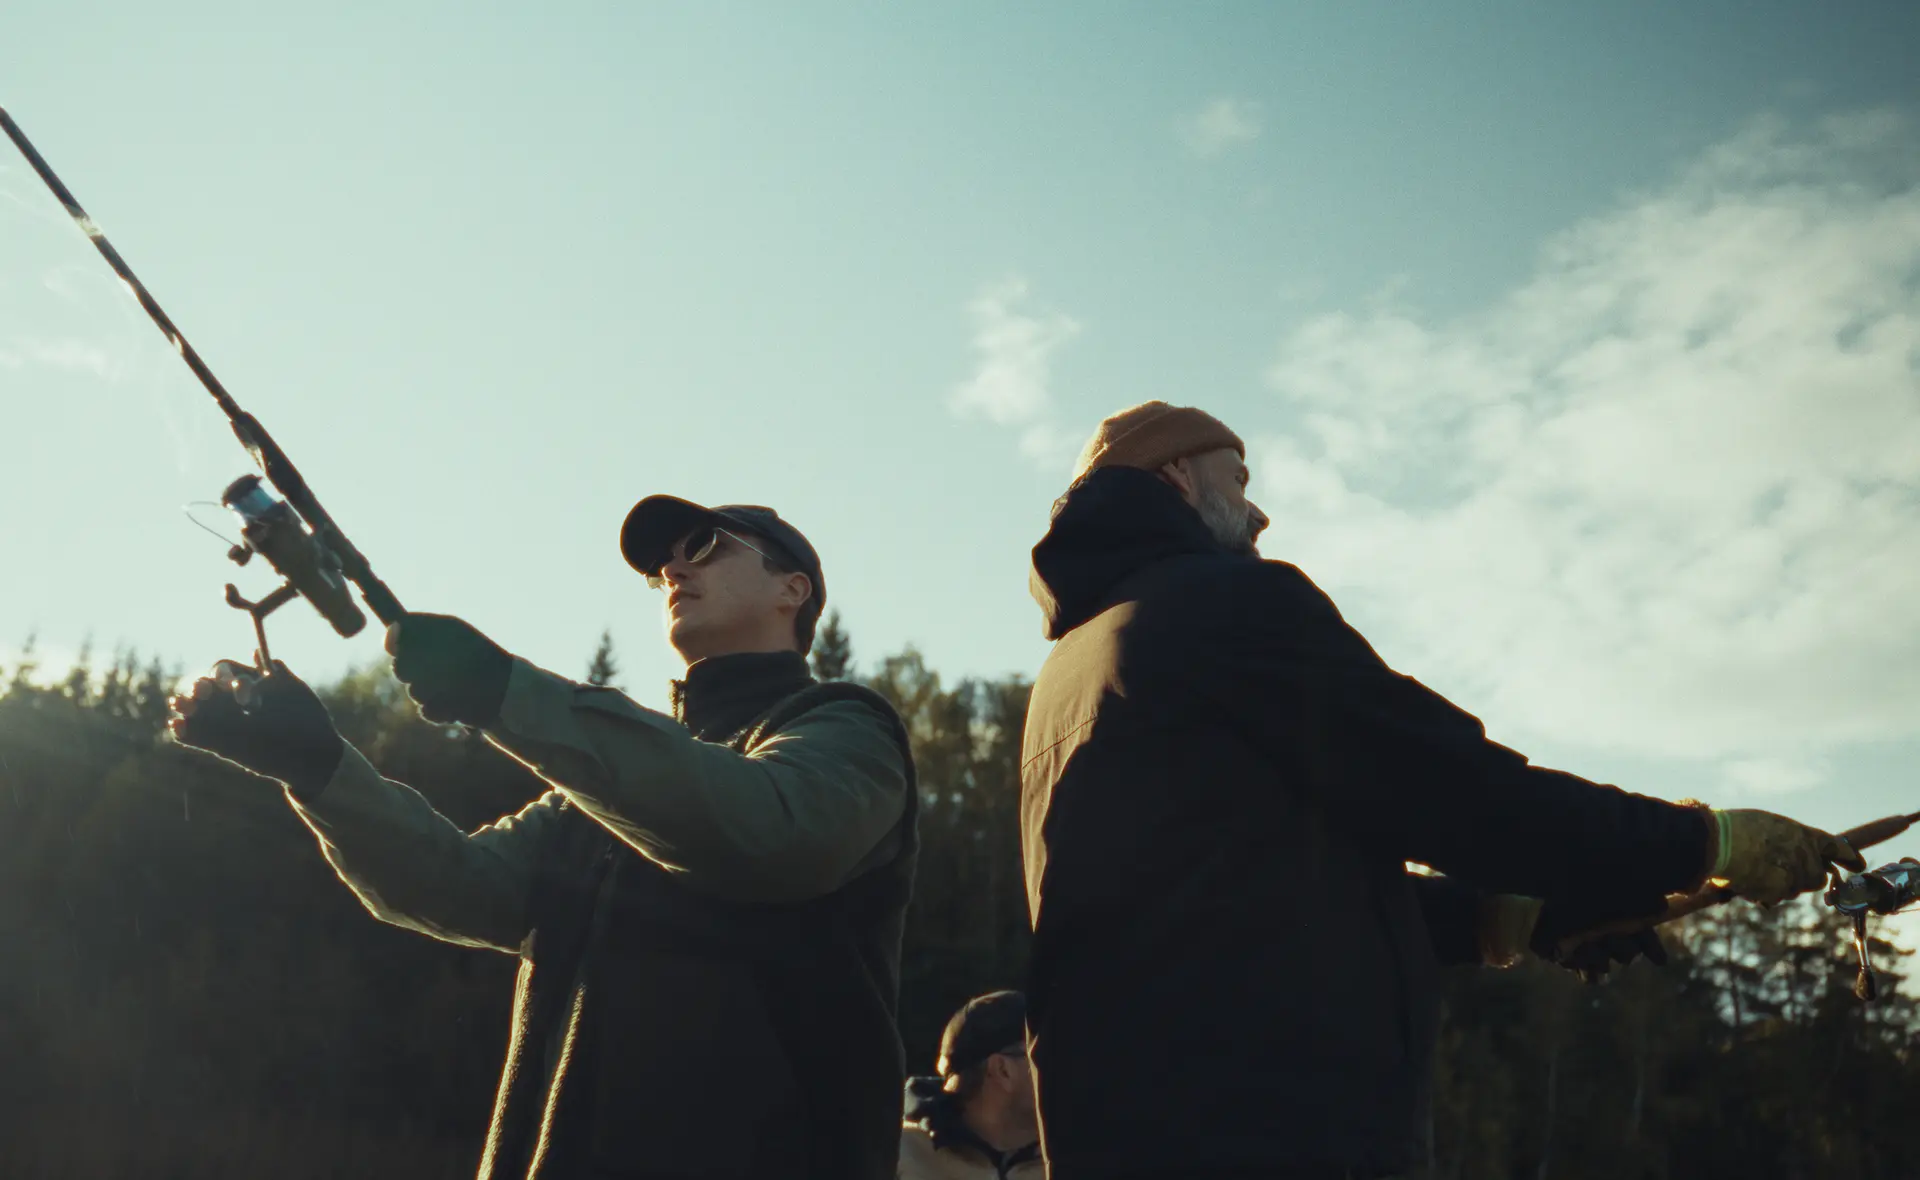
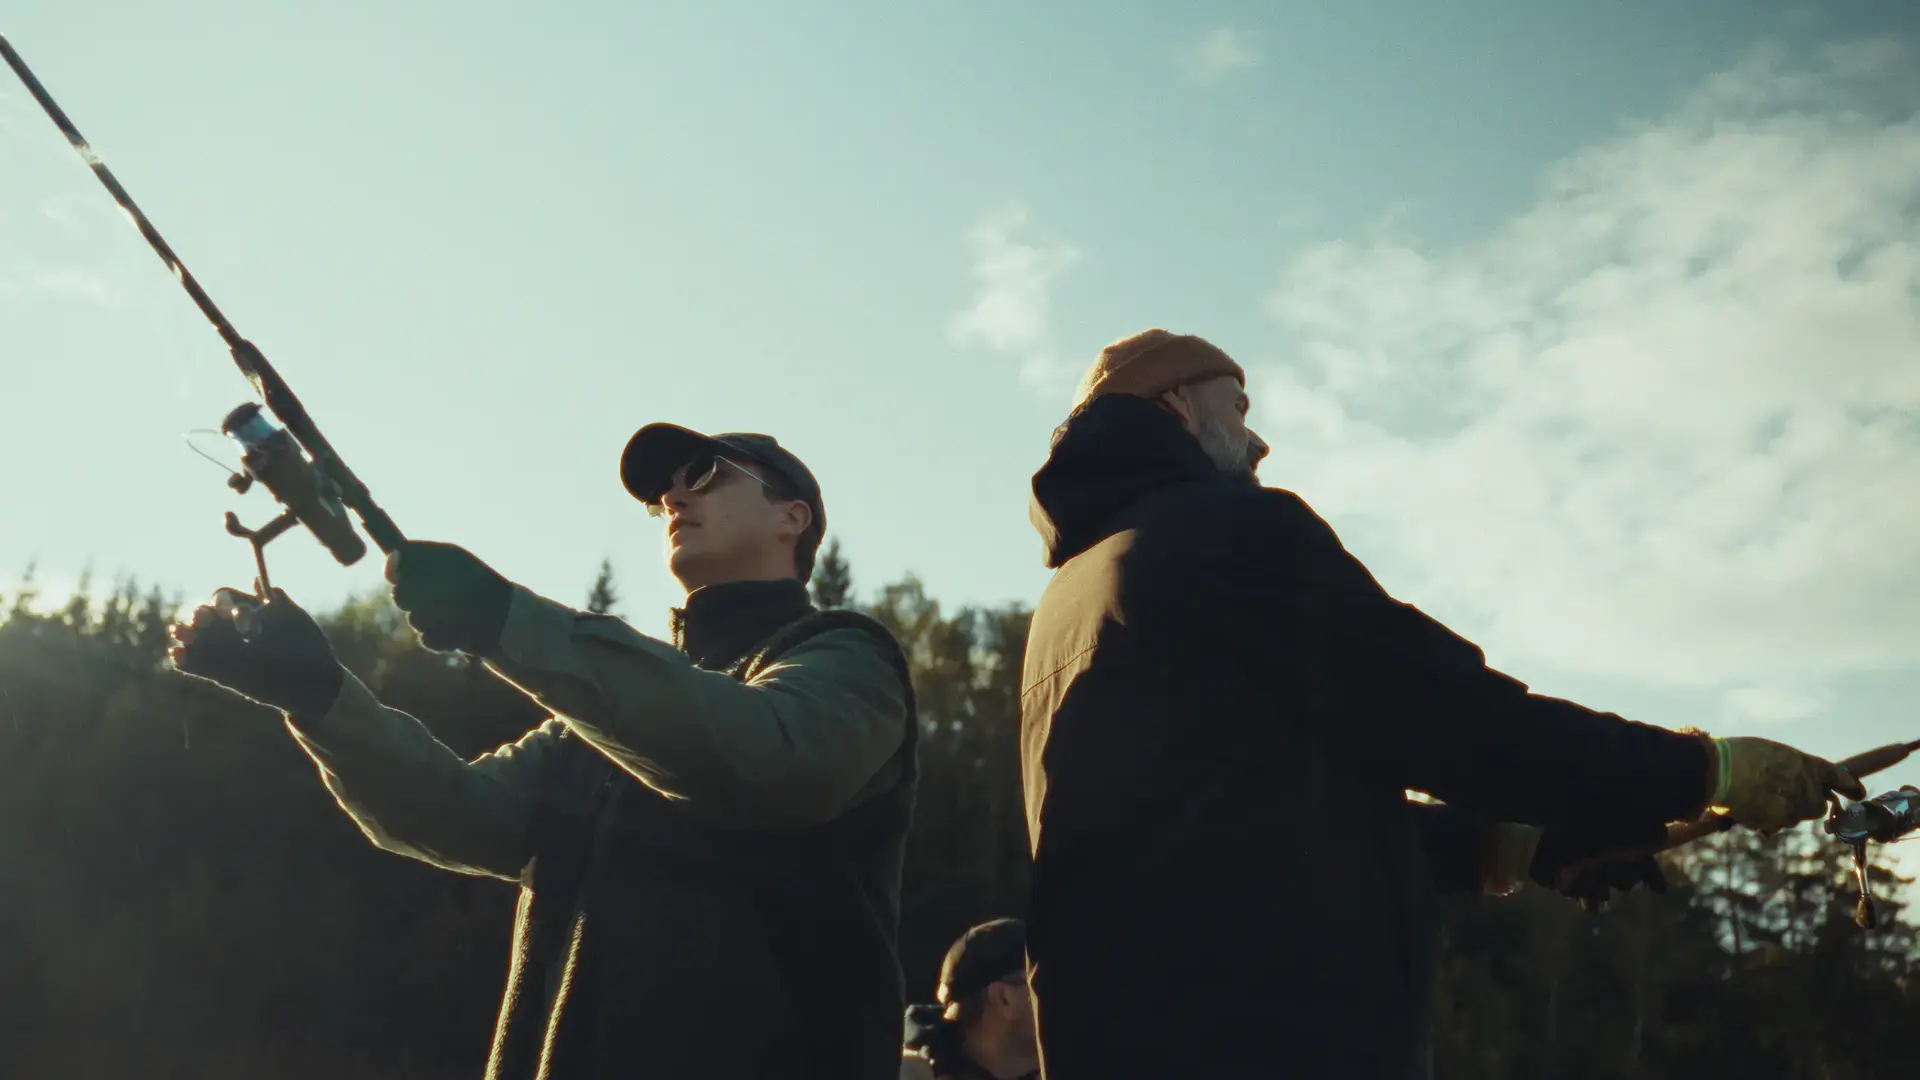
case

diff --git a/src/app/page.jsx b/src/app/page.jsx
@@ -37,7 +37,7 @@ export default function Page() {
               delay={Math.min(idx * 80, 320)} // subtil stagger
               className="group relative block"
             >
-              <div className="relative aspect-[3/2] w-full overflow-hidden bg-gray-100">
+              <div className="relative aspect-[16/9] w-full overflow-hidden bg-gray-100">
                 {cover ? (
                   <Image
                     src={cover.src}
